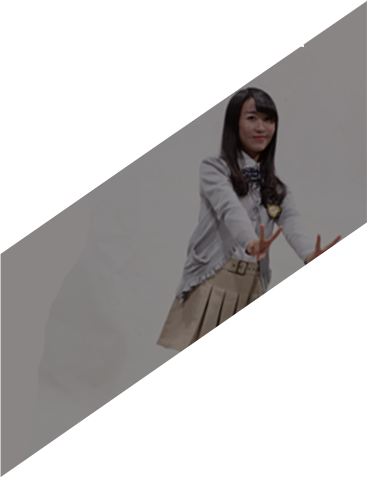
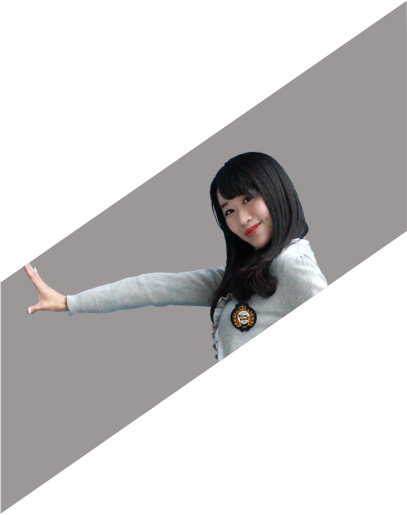
Replace No. 3 and 5 singers' pictures Fix tip words on vote page.

diff --git a/vote/app/views/vote/index.blade.php b/vote/app/views/vote/index.blade.php
@@ -39,7 +39,7 @@
 
 <div id="vote-form">
     <div class="form-container">
-        <h1 class="title">请使用学校学号密码进行身份验证</h1>
+        <h1 class="title">请使用学校学号密码进行身份验证（身份信息我们绝对保密哟）</h1>
         {{ Form::open(array('url' => 'vote', 'method' => 'post')) }}
         <div class="form-field">
             <div class="field-label">选手：</div>
